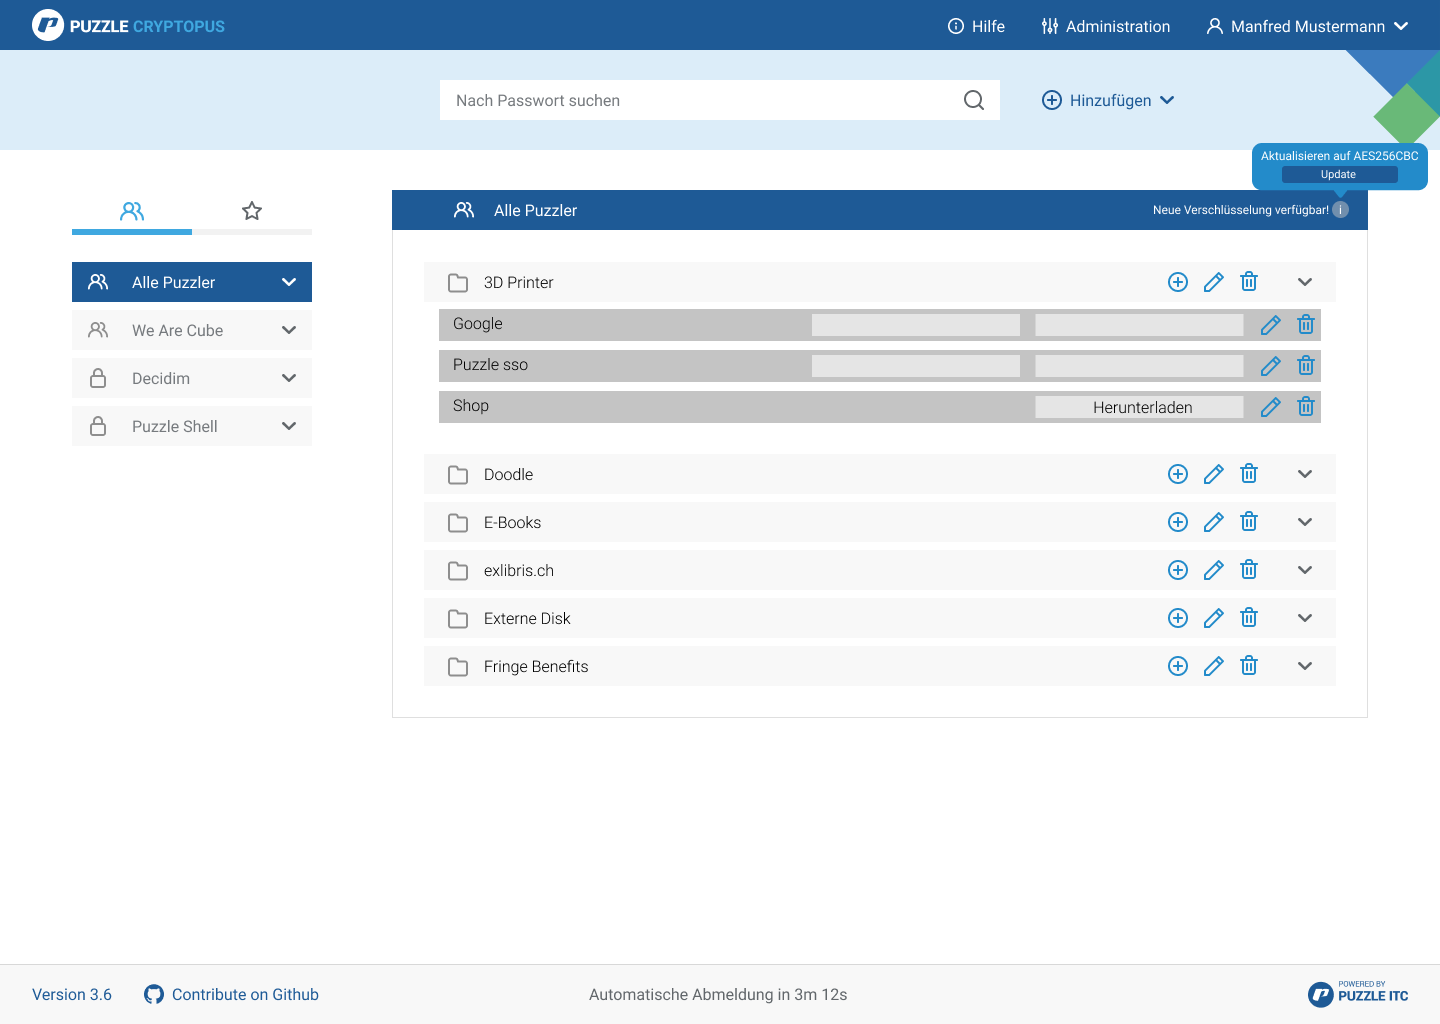
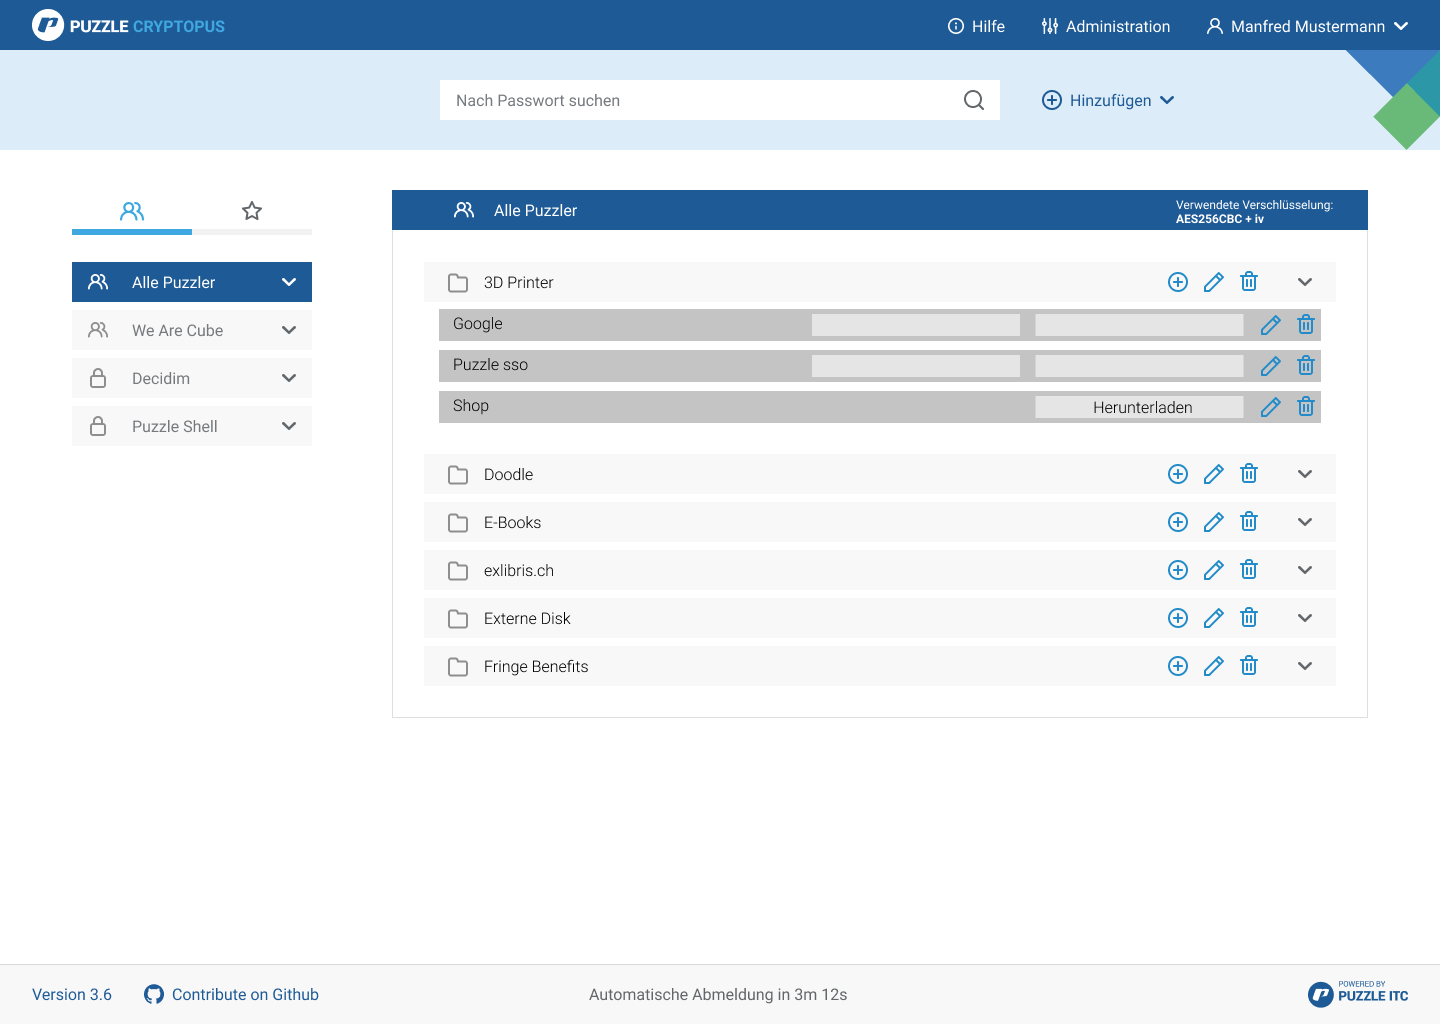
Update

Changed region(s): [[0.8125, 0.125, 1.0, 0.2188]]

diff --git a/1_konzeption/1.6_encryption.md b/1_konzeption/1.6_encryption.md
@@ -1,24 +1,18 @@
 # Verschlüsselung
 
 ## Ausgangslage
-Neue Verschlüsselungsalgorithmen wurden mit neuen versionen eingeführt. So wurden alle Accounts neu  verschlüsselt nachdem sich der Benutzer zum ersten mal auf einer neuen version angemeldet hat. 
+Neue Verschlüsselungsalgorithmen wurden mit neuen Versionen eingeführt. So wurden alle Accounts neu  verschlüsselt nachdem sich der Benutzer zum ersten mal auf einer neuen version angemeldet hat. 
 
 ## Neuer Ansatz
-Neu soll, anstatt der automatischen aktualisierung der Verschlüsselung nach dem login, der Benutzer selbst bestimmen können welche Verschlüsselungen bei seinen Teams angewendet werden sollen. So soll ein upgrade auf eine andere (bessere) verschlüsselung möglich sein, ein downgrade auf eine schlechtere jedoch nicht.
+Mit Hilfe eines post login hooks* sollen die Accounts welche noch nicht mit dem neusten Verschlüsselungalgorithmus verschlüsselt wurden, erkennt und erneut verschlüsselt werden. Neue Verschlüsselungen kann man in der Rails config von Cryptopus spezifizieren. 
 
+
+\* Der post login hook wird ausgeführt sobald sich ein Bentuzer das erste mal nach einem Cryptopus update erfolgreich angemeldet hat. 
 ## Umsetzung
-Die 'Standart' verschlüsselung soll in der Rails config angegeben werden können. Encryptables welche neu erstellt werden, verwenden den dort eingetragenen Verschlüsselungsalgorithmus.
+Die 'Standart' verschlüsselung soll in der Rails config angegeben werden können. Encryptables welche neu erstellt werden, verwenden den dort eingetragenen Verschlüsselungsalgorithmus. Zusätzlich soll im UI die vom Team verwendete Verschlüsselung dargestellt werden, dies sorgt für mehr Transparenz sowie auch Sicherheit gegenüber den Bentuzer.
 
-### Verschlüsselung aktualisieren
-Im UI soll es möglich sein, die verschlüsselung des Teams anzupassen und gegen eine bessere/sichere auszuwechseln. Dabei geschieht folgendes:
-
-1. Benutzer wählt im UI neue Verschlüsselung aus.
-2. Benutzer bestätigt neue Verschlüsselung.
-3. `Api::Teams::RecryptController` verschlüsselt gewähltes Team mit neuerer Verschlüsselung.
-4. Benutzer erhält info, dass sein Team mit neuer Verschlüsselung verschlüsselt wurde.
-
-#### Recrypt Controller
-Der `Api::Teams::RecryptController` wird verwendet damit Teams auf einen anderen Verschlüsselungs Algorithmus wechseln können. Konkret wird dieser aufgerufen sobald aus dem UI die Verschlüsselung eines Teams angepasst wird ([Hier ersichtlich](1.2_ui_changes.md#listenansicht)). Sobald dies geschieht, werden alle Encryptables welche sich in diesem Team befinden, mit dem neuen Algorithmus verschlüsselt. Die Encryptables werden mithilfe der Encryption Struktur, auf die entsprechende Verschlüsselung recrypted.
+### Recrypt Controller
+Der `Api::Teams::RecryptController` wird verwendet damit Teams auf einen anderen Verschlüsselungs Algorithmus wechseln können. Dieser wird vom post login hook aufgerufen. Sobald dies geschieht, werden alle Encryptables welche sich in diesem Team befinden, mit dem neuen Algorithmus verschlüsselt. Die Encryptables werden mithilfe der Encryption Struktur, auf die entsprechende Verschlüsselung recrypted.
 
 ## Encryption Struktur
 ![Listview](_diagrams/encryption.png)

diff --git a/1_konzeption/1.5_implementation.md b/1_konzeption/1.5_implementation.md
@@ -12,7 +12,7 @@ Das erste Teilpaket beinhaltet die Einführung der neuen Encryptable Struktur. D
 Das zweite Teilpaket beinhaltet den Encryptables Recrypt. Dieser wird die Encryptables neu verschlüsseln und dabei den neuen Verschlüsselungs Algorithmus mit `iv` einführen (Siehe mehr unter [Verschlüsselung mit IV](1.1_encryptables_model.md#verschlsselung)). Mittels einem post login hook werden die Encryptables auf eine neue/bessere Verschlüsselung recrypted. Zusätzlich wird im UI die verwendete Verschlüsselung dargestellt.
 
 ## Teilpaket 3
-Das dritte Teilpaket umfasst die verschiebung der Dateien von den Accounts zu den Ordnern. Dafür wird eine Migration erstellt welche die Dateien zum Typ `Encryptable::File` migriert. Dazu muss das UI angepasst werden und neue Routen erstellt werden.
+Das dritte Teilpaket umfasst die Verschiebung der Dateien von den Accounts zu den Ordnern. Dafür wird eine Migration erstellt welche die Dateien zum Typ `Encryptable::File` migriert. Dazu muss das UI angepasst werden und neue Routen erstellt werden.
 
 ## Teilpaket 4
 Im vierten Teilpaket werden die Controller und API änderungen vorgenommen. Dabei werden auch die Custom felder eingebaut und im UI erstellt.
